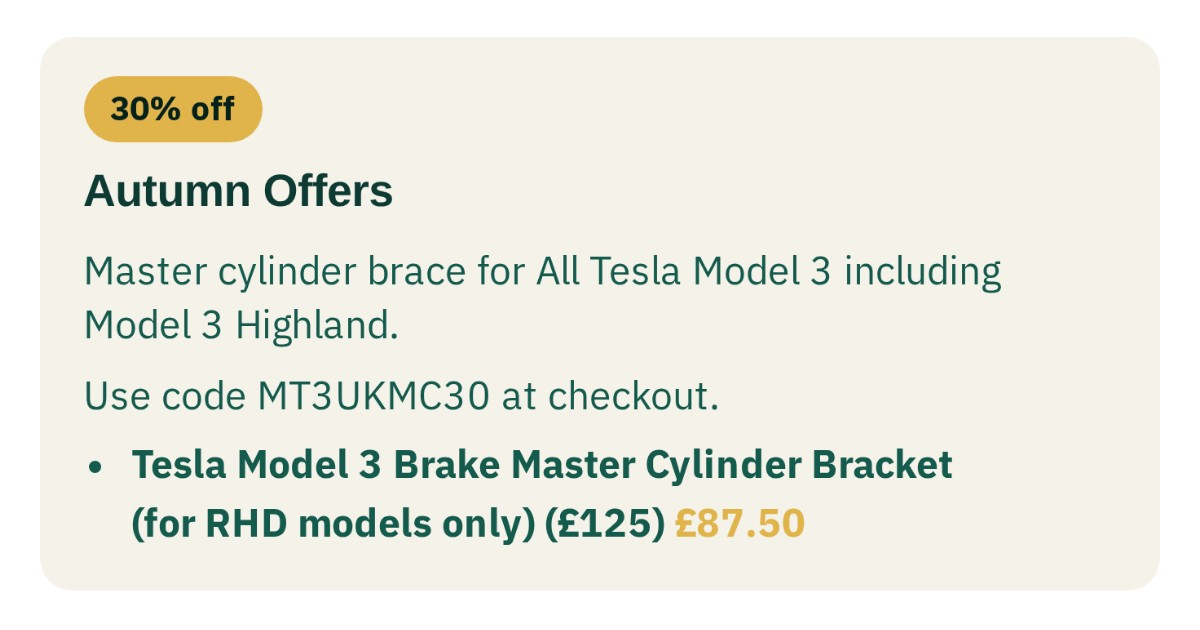
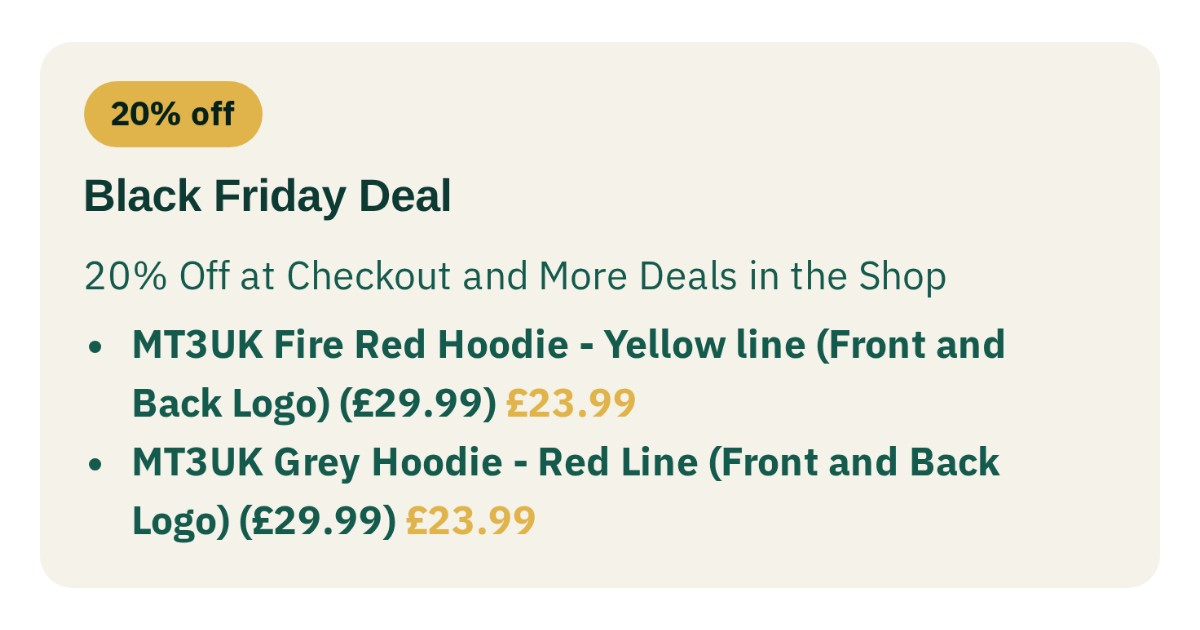
Update homepage card share pages and previews

diff --git a/share/card/offers.html b/share/card/offers.html
@@ -3,27 +3,27 @@
 <head>
 <meta charset="utf-8">
 <meta name="viewport" content="width=device-width, initial-scale=1.0">
-<title>Autumn Offers | MT3UK</title>
-<meta name="description" content="Master cylinder brace for All Tesla Model 3 including Model 3 Highland.">
+<title>Black Friday Deal | MT3UK</title>
+<meta name="description" content="20% Off at Checkout and More Deals in the Shop">
 <meta name="robots" content="noindex, follow">
 <link rel="canonical" href="https://mt3uk.com/share/card/offers.html">
 <meta property="og:type" content="website">
 <meta property="og:site_name" content="MT3UK">
-<meta property="og:title" content="Autumn Offers">
-<meta property="og:description" content="Master cylinder brace for All Tesla Model 3 including Model 3 Highland.">
+<meta property="og:title" content="Black Friday Deal">
+<meta property="og:description" content="20% Off at Checkout and More Deals in the Shop">
 <meta property="og:url" content="https://mt3uk.com/share/card/offers.html">
 <meta property="og:image" content="https://mt3uk.com/share/card/offers.jpg">
 <meta property="og:image:width" content="1200">
 <meta property="og:image:height" content="630">
 <meta name="twitter:card" content="summary_large_image">
-<meta name="twitter:title" content="Autumn Offers">
-<meta name="twitter:description" content="Master cylinder brace for All Tesla Model 3 including Model 3 Highland.">
+<meta name="twitter:title" content="Black Friday Deal">
+<meta name="twitter:description" content="20% Off at Checkout and More Deals in the Shop">
 <meta name="twitter:image" content="https://mt3uk.com/share/card/offers.jpg">
 <meta http-equiv="refresh" content="0; url=../../index.html#card-offers">
 <script>location.replace('../../index.html#card-offers');</script>
 <style>body{margin:0;min-height:100vh;display:grid;place-items:center;padding:16px;background:#16233d;color:#fff;font-family:system-ui,sans-serif}a{color:#f2a48c}</style>
 </head>
 <body>
-<p>Opening MT3UK... <a href="../../index.html#card-offers">Autumn Offers</a></p>
+<p>Opening MT3UK... <a href="../../index.html#card-offers">Black Friday Deal</a></p>
 </body>
 </html>

diff --git a/share/card/shop.html b/share/card/shop.html
@@ -4,20 +4,20 @@
 <meta charset="utf-8">
 <meta name="viewport" content="width=device-width, initial-scale=1.0">
 <title>In the MT3UK Shop | MT3UK</title>
-<meta name="description" content="Tesla Model 3 Brake Master Cylinder Bracket (for RHD models only) (£125) £87.50">
+<meta name="description" content="MT3UK Fire Red Hoodie - Yellow line (Front and Back Logo) (£29.99) £23.99, MT3UK Grey Hoodie - Red Line (Front and Back Logo) (£29.99) £23.99">
 <meta name="robots" content="noindex, follow">
 <link rel="canonical" href="https://mt3uk.com/share/card/shop.html">
 <meta property="og:type" content="website">
 <meta property="og:site_name" content="MT3UK">
 <meta property="og:title" content="In the MT3UK Shop">
-<meta property="og:description" content="Tesla Model 3 Brake Master Cylinder Bracket (for RHD models only) (£125) £87.50">
+<meta property="og:description" content="MT3UK Fire Red Hoodie - Yellow line (Front and Back Logo) (£29.99) £23.99, MT3UK Grey Hoodie - Red Line (Front and Back Logo) (£29.99) £23.99">
 <meta property="og:url" content="https://mt3uk.com/share/card/shop.html">
 <meta property="og:image" content="https://mt3uk.com/share/card/shop.jpg">
 <meta property="og:image:width" content="1200">
 <meta property="og:image:height" content="630">
 <meta name="twitter:card" content="summary_large_image">
 <meta name="twitter:title" content="In the MT3UK Shop">
-<meta name="twitter:description" content="Tesla Model 3 Brake Master Cylinder Bracket (for RHD models only) (£125) £87.50">
+<meta name="twitter:description" content="MT3UK Fire Red Hoodie - Yellow line (Front and Back Logo) (£29.99) £23.99, MT3UK Grey Hoodie - Red Line (Front and Back Logo) (£29.99) £23.99">
 <meta name="twitter:image" content="https://mt3uk.com/share/card/shop.jpg">
 <meta http-equiv="refresh" content="0; url=../../index.html#card-shop">
 <script>location.replace('../../index.html#card-shop');</script>
